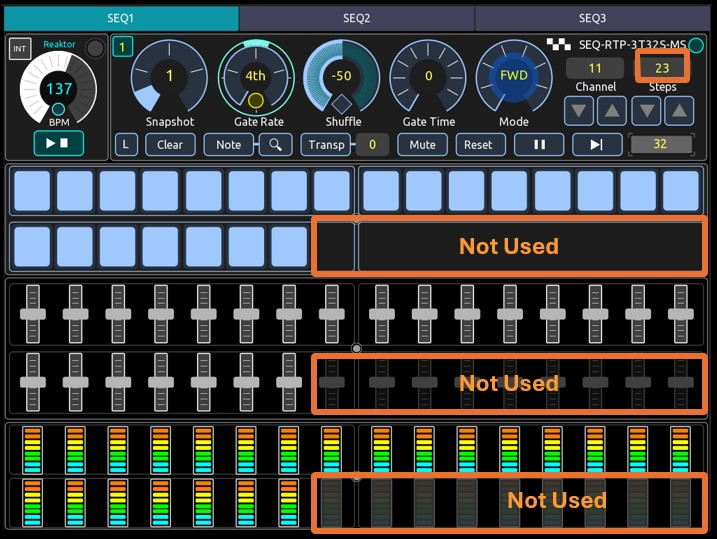
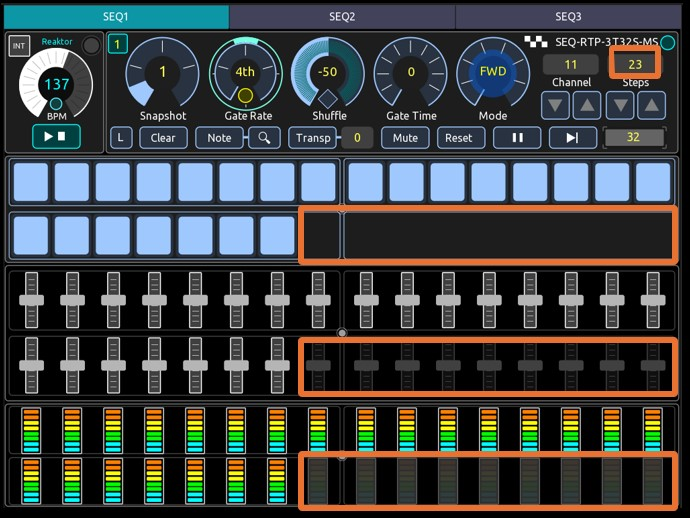
Update Files

diff --git a/USER_GUIDE.md b/USER_GUIDE.md
@@ -1,79 +1,120 @@
-## Reaktor ToyBox Tangle Pack Sequencer TouchOSC template
+## Reaktor ToyBox Tangle Pack Sequencer
+### Custom Built Reaktor rack and TouchOSC Template
 
 ## USER GUIDE
+This guide explains the setup, usage and control of the **CUSTOM BUILT** Reaktor ToyBox Tangle Pack Sequencer. 
 
 ## Contents
 - [Transport](#transport)
 - [Control](#controls)
 - [Sequencer](#sequencer)
-- [MIDI Setup](#midi-setup)
-- [OSC Setup](#osc-setup)
+- [Connections](#connections)
 
-## Transport
+
+## TRANSPORT
 
 <div align="center"> 
 <img src="images/img5.jpg" with=70% >
 </div>
 
-### INT/EXT CLOCK
-Allows you to select Internal or External clock source. The Play/Stops controls change accordingly and the BPM values scales. If you select EXT, two options are enabled: Ableton Link and Reason. If you use other external DAW instead of Reason, you can do it, but you need to change the BPM scale values inthe script to match the values and scales in your DAW. 
+### Clock
+Selects Internal, Ableton Link or an External clock source. The Play and Stop controls and BPM scales change depending on the option selected. If you press and toogle INT, two options are available pressing the right round button: **Link Ableton** and **EXT Reason**. The EXT option shows **Reason** because the template has the BPM values already scaled to this DAW. But you have the option to change it if you use any other external DAW. 
+
+- **INT**: This option selects Reason as the clock source. You could use Reaktor as the master clock source for your setup if you select the option "Send clock to MIDI ouput"  in the Settings menu.
+
+- **LINK**  **Ableton Link**: This option selects Ableton Link as the clock source. Manually Enable **Link** in Ableton as well as in Reaktor.  
+
+- **EXT**  **Reason** : This option selects an external DAW clock source. The template displays **Reason** because the BPM values are already scaled for Reason. But you can change to your DAW and modify the script to match the BPM scales of your DAW. 
 
 <div align="center"> 
 <img src="images/img8.jpg" with=70% >
 </div>
 
+<div align="center"> 
+<img src="images/img15.jpg" with=70% >
+</div>
+
+
 ### BPM
-Select de beats per minute in either REAKTOR (INT) or your external DAW (EXT). You will need to midi map mannualy the BPM control in your DAW and adjust to match the scale. (Reason DAW is already configured ion the template). BPM is the same for all 3 sequencers.
+Selects the BPM values for the 3 sequencers depending on the clock source: 
+
+-- **INT** : Use the BPM values from the Reaktor rack. Values are from 1 to 240. Already OSC mapped. 
+
+-- **EXT - Ableton Link** : Use the BPM values from the Ableton DAW. Values are from 20 to 240. Manualy do the midi mapping and ajust the BPM scale in Ableton to the 240 max value. 
+
+-- **EXT - Reason** : Use the BPM values from the Reason DAW (or any other you use). Default values are from 1 to 244. Manualy do the midi mapping. If you use any other DAW, modify in the template script the MIDI Control Change message of the **BPMRS** control. The default value for Reason adjusted  from 0 to 30.  Change it and adjust to your DAW as needed. To change the name to your DAW, locate in the script the INTEXT and DAW controls the variable daw_ext and change its value. 
+
+ 
+<div align="center"> 
+<img src="images/img13.jpg" with=70% >
+</div>
+
+```
+local daw_ext = 'Reason'      -- Change it to your DAW as needed
+
+````
 
 ### Play / Stop
-Play and stop all the 3 sequencers. It has 3 modes of operation, depending on the selected clock source:
+Play and Stop the 3 sequencer tracks. It has 3 modes of operation, depending on the selected clock source:
 
-- **INT** clock mode: PLAY/STOP play and stop de Reaktor rack. OSC mapped. 
+- **INT** clock mode: PLAY/STOP play and stop de Reaktor rack. Only one play button is displayed OSC mapped to Reaktor.
 
-- **EXT** CLock - **Ableton Link** : First you will need to midi map this controls to your DAW. Two play buttons are avalilable in this mode, one for Reaktor and one for Ableton. Reaktor can play or stop independent of Ableton, but is linked in beat, phase and tempo to the master clock of Ableton. Note: Ableton can start the playing in Reaktor if the sync option is selected in the midi output ports settings. In this mode Reaktor does not have a modular block to control the start/stop control inside the rack. Play/stop control works with a space bar message sent by the template, but it requires the "focus" on the Reaktor window to work. Unfortunately this is a limitation that you will need to take into account. A stream deck device is recommended to  easy the workflow. 
+- **EXT** CLock + **Ableton Link** : Two play buttons, the left one is for Reaktor and the right one is for Ableton.  Manually do the midi mapping of the middle PLAY button to Ableton. Reaktor can play or stop independently of Ableton, but is linked in beat, phase and tempo to the master clock of Ableton. Note: Ableton can start play in Reaktor if the sync option is selected in the midi output ports settings. Reaktor does not have a modular block to control the start/stop control inside the rack when EXT clock source is selected. Play/stop control works with a **[SPACE BAR]** message. It requires to have the "focus" on the Reaktor window to work. Unfortunately this is a limitation that you will need to take into account. A stream deck device is recommended in your  workflow. The **PLAY_SPACE** control in the script ese OSC Connection 2 to send SPACE message to TouchOSC Bridge host, port 12101, which in turn send it to Reaktor.
 
-- **EXT** Clock - **Reason** (Or any other external DAW): First you will need to midi map this controls to your DAW. One play/stop button is available, that is mapped to your DAW. In this mode the DAW has the transport control, controlling the transport in Reaktor on sync. 
+<div align="center"> 
+<img src="images/img14.jpg" with=70% >
+</div>
+
+<div align="center"> 
+<img src="images/img15.jpg" with=70% >
+</div>
+
+- **EXT** Clock + **Reason** (Or any other external DAW): Only one play button is displayed. Manually do the midi mapping of the middle PLAY button to Reason. Reaktor will  play or stop controlled in sync by the external clock source of Reason. . Note: Ableton can start play in Reaktor if the sync option is selected in the midi output ports settings. Reaktor does not have a modular block to control the start/stop control inside the rack when EXT clock source is selected
 
 ### Mute 
-Mute the selected track (all 3 if LINK selected). The sequencer will continue running, but without MIDI output
+Mute the selected track (all 3 if LINK selected). The sequencer track continue running, no MIDI output.
 
 ### Reset
-Reset the track position to the start on the selected track (all 3 if LINK selected). The start position is 1 or the last step, depending on the sequencer direction mode. 
+Reset the track position to the start on the selected track (all 3 if LINK selected). The start position is 1 or the last step, depending on the sequencer track direction mode. 
 
 ### Pause
-Pause the selected track (all 3 if LINK selected). The sequencer stops, with no MIDI output. Reaktor clock continue running. Once pause is disabled, sequencer will return playing on another step.   
+Pause the selected track (all 3 if LINK selected). The sequencer track stops, no MIDI output. Clock continue running. Once pause is disabled, the sequencer track will play again.   
 
 ### Step 
 Advance one step the selected track (all 3 if LINK selected). This is useful to test your sequence.  
 
 
-## Control
+## CONTROL
 
 <div align="center"> 
 <img src="images/img6.jpg" with=70% >
 </div>
 
 ### Snapshots
-The template supports a **snapshot** ( or preset) functionality, that allows you to save and recall up to four configuration values on each sequencer: note, gate, velocity and controls ( gate rate, shuffle, gate time, mode and steps). MIDI channel does not change with each snapshot. Each time you select a snapshot,  it automatically changes the value in the Reaktor rack. But be aware it is no bidirectional, that means, if you change a value in the Reaktor rack, it will not be updated to the template. The template acts as the "master" configuration. If you want to start from zero, just run press the CLEAR button with the LINK enabled to clear all values at once in the 3 sequencers and repeat it for each snapshot. 
+The template supports a **snapshot** ( or preset) functionality, which allows you to save and recall up to four configuration values on each sequencer track: note, gate, velocity and controls ( gate rate, shuffle, gate time, mode and steps). MIDI channel does not change. Each time you select a snapshot,  it automatically changes the value in the teamplate and in the Reaktor rack. But be aware it is no bidirectional, it only works from the template to Reaktor. So if you change a value in the Reaktor rack, it will not be updated back to the template. The template has the "master" values. If you need to start from zero, just run press CLEAR with LINK enabled to clear all values at once in the 3 sequencer tracks. Repeat it for each snapshot. 
+
+<div align="center"> 
+<img src="images/img16.gif" with=70% >
+</div>
 
 ### Link
-LINK (L) button links the execution of commands, to execute it simultaneously on the 3 sequencers. The commands that works with "LINK" are: SNAPSHOT, CLEAR, NOTE, TRANSP, MUTE, RESET, PAUSE, and STEP. Just press the **L** button and the linked controls will change color to yellow. 
+Links the execution of commands, to execute it simultaneously on the 3 sequencer tracks. The commands that works with "LINK" are: SNAPSHOT, CLEAR, NOTE, TRANSP, MUTE, RESET, PAUSE, and STEP. Press the **L** button and the linked controls will change color to yellow. 
 
 <div align="center"> 
 <img src="images/img10.jpg" with=70% >
 </div>
 
 ### Gate Rate
-Select the gate rate of each track: 4th, 8th, 16th, 32th and 64th.
+Selects the gate rate on each track: 4th, 8th, 16th, 32th and 64th.
 
 ### Shuffle
-Select a shuffle of each track to introduce variations in the rythm. (-50% to 50%). A diamond shaped button is provided to quickly return shuffle to 0%.
+Selects a shuffle on each track to introduce variations in the rythm: -50% to 50%. The diamond shaped button return shuffle to 0%.
 
 ### Gate Time
-Select a gate time of each track. (0 to 100)
+Selects a gate time on each track: 0 to 100
 
 ### Mode
-Select one of the 8 sequencer modes: FWD, REV, FWD-REV, TRI, PATT1, PATT2, RAND, GLITCH. 
+Selects one out of the 8 sequencer modes: FWD, REV, FWD-REV, TRI, PATT1, PATT2, RAND, GLITCH. 
 
 - **FWD** (forward) = The sequence plays forwards.
 - **REV** (reverse) = The sequence is reversed.
@@ -85,23 +126,23 @@ Select one of the 8 sequencer modes: FWD, REV, FWD-REV, TRI, PATT1, PATT2, RAND,
 - **GLITCH** = Same as FWD except every so often plays a random step.
 
 ### Channel
-Select the midi output channel for each sequencer track. Take care to use a midi channel that is not used by any other instrument and use a virtual MIDI port in your computer, that is not used or reserved by any other DAW or applications. On a PC you can use [loopMIDI](https://www.tobias-erichsen.de/software/loopmidi.html) to create virtual ports. On a Mac, you can use the IAC bus to create any number of virtual MIDI buses. This driver can be activated in the Audio MIDI Setup Utility.
+Selects the midi output channel for each sequencer track. Use either an available midi channel in your audio interface that is not used by any other instrument and/or use a virtual MIDI port in your computer, that is not used or reserved by any other DAW or application. On a PC you can use [loopMIDI](https://www.tobias-erichsen.de/software/loopmidi.html) to create virtual ports. On a Mac, you can use the IAC bus to create any number of virtual MIDI buses, the driver can be activated in the Audio MIDI Setup Utility.
 
 ### Steps
-Select the number of up to 32 steps per sequencer track. The steps that are not used, change to a hidden state in the template, so you have a visual feedback of the steps available. 
+Selects the number of up to 32 steps per sequencer track. The steps that are not used, change to a hidden state in the template, so you have a visual feedback of the steps available. 
 
 <div align="center"> 
 <img src="images/img11.jpg" with=70% >
 </div>
 
 ### Clear
-Initializes the values of the sequencer track (all 3 if LINK selected) to a starting values: 
+Initializes the values of the sequencer track (all 3 if LINK selected) to the following values: 
 - **GATE** = ALL SELECTED (1)
 - **NOTE** = C3 (middle C)
 - **VELOCITY** = 100
 - **Gate Rate** = 4th
-- **Shuffle = 0%
-- **Gate Time = 50
+- **Shuffle** = 0%
+- **Gate Time** = 50
 - **MODE** = FWD
 - **Steps** = 32 
 
@@ -109,7 +150,7 @@ Ocassionaly the template and reaktor rack files could be out of sync if you eith
 
 
 ### Note display and zoom
-Display the pitch values of each step on top of each step gate. Additionally a zoom button extend the note faders to easy input of notes. The convention used for numbering keys (notes) is where MIDDLE C (note #60) is C3. In piano scales the convention, Middle C is designated "C4". The "C3 Convention" is the most commonly used octave designation system on standard MIDI keyboards, most DAWs and Reaktor.  
+Display the pitch values of each step on top of each step gate. Additionally a zoom button extend the note faders to allow for an easy input of notes. The convention used for numbering keys (notes) is where MIDDLE C (note #60) is C3. The piano scales convention, Middle C is designated as "C4". The "C3 Convention" used here, is the most commonly used octave designation system on standard MIDI keyboards, most DAWs and Reaktor.  
 
 <div align="center"> 
 <img src="images/img12.jpg" with=70% >
@@ -117,31 +158,80 @@ Display the pitch values of each step on top of each step gate. Additionally a z
 
 
 ### Transpose
-The template has a -24 to + 24 interval keyboard to transpose the sequence (all 3 if LINK selected) without the need of an external midi controller. When you select transpose it displays the transpose keyboard on top of the velocity group. It also displays the transpose interval according to the key pressed, being C3 the central key. When you release transpose, the transpose keyboard returns to a hidden state. 
+The template has a -24 to + 24 interval keyboard to transpose the sequence the tracks (all 3 if LINK selected) without the need of an external midi controller. When you select transpose it displays the transpose keyboard on top of the velocity group. It also displays the transpose interval according to the key pressed, being C3 the central key. When you release transpose, the transpose keyboard returns to a hidden state. 
 
 <div align="center"> 
 <img src="images/img9.jpg" with=70% >
 </div>
 
 
-## Sequencer
+## SEQUENCER
 
 <div align="center"> 
 <img src="images/img7.jpg" with=70% >
 </div>
 
-### Gate section
-Select each step to play it or not. It can be changed an any time and its value is stored automatically in the corresponding snapshot. But remember to mannualy save the template if you close it to keep the values. Depending on the number of steps selected, the gate steps can be displayed or hidden. 
+### Gate 
+Select each step to play it or not. It can be changed at any time and its value is stored automatically in the corresponding snapshot. But remember to mannualy save the template if you close it to keep the values. Depending on the number of steps selected, the gate steps can be displayed or hidden. 
 
-### Note (Pitch) section
-Select the value of the note on each step. It can be changed at any time and its value is stored automatically in the corresponding snapshot. But remember to mannualy save the template if you close it to keep the values. Depending on the number of steps selected, the note steps can be displayed or hidden. The note value that you change in the fader can be displayed when you press the Note button. If you press the zoom button, the note faders are expanded and you can more easily control the fader to setup a  note value. 
+### Note (Pitch) 
+Select the value of the note on each step. It can be changed at any time and its value is stored automatically in the corresponding snapshot. But remember to mannualy save the template if you close it to keep the values. Depending on the number of steps selected, the note steps can be displayed or hidden. The note value can be displayed when you press the Note button. If you press the zoom button, the note faders are expanded so you can more easily touch the fader to input a note value. 
 
-### Velocity section
-Select the value of the velocity (volume level) on each step. Remember that the velocity signal will work only if your virtual or external instrument supports velocity control. It can be changed at any time and its value is stored automatically in the corresponding snapshot. But remember to mannualy save the template if you close it to keep the values. Depending on the number of steps selected, the velocity steps can be displayed or hidden. The velocity value that you change in the fader is displayed automatically in a pop up box over the note group. 
-
-
-## MIDI setup
+### Velocity
+Select the value of the velocity (volume level) on each step. Remember that the velocity signal will work only if your virtual or external instrument supports velocity control. It can be changed at any time and its value is stored automatically in the corresponding snapshot. But remember to mannualy save the template if you close it to keep the values. Depending on the number of steps selected, the velocity steps can be displayed or hidden. The velocity value is displayed automatically in a pop up box over the note group when you move a fader.
 
 
+## CONNECTIONS
+- Reaktor Mapping: OSC. Already configured in the Reaktor rack file. No need to stup.
+- DAW Host Mapping:  MIDI. Manualy do the midi mapping in the PLAY, STOP and BPM controls between teh template and your DAW
+- TouchOSC Connections: Manualy do the following configuration in your tablet device:
+	- MIDI Connection 1 : Send Port: Bridge, Receive Port: Bridge
+	- OSC Connection 1: Host (IP of your PC host), Ports: send 10000, receive 10000
+	- OSC Connection 2: Host (IP of your PC host), Ports: send 12101, receive 12101   (This connection is required to send keystrokes)
+	- Bridge: Host(IP of PC host)
+- Virtual MIDI interface: Virtual midi ports on the PC or MAC to communicate Reaktor with the DAW. Manually do the neccesary configurations
+- Physical MIDI: To communicate Reaktor with external gear. Manually do the neccesary configurations
+- Reaktor OSC Configuration: 
+	- OSC Activate ON 
+	- Receive on Port 10000 
+	- OSC Send (Identifier Target, Tablet device IP address, Port 10000)
+	
+## REAKTOR RACK
+The **CUSTOM BUILT** Reaktor rack consist of the following modular blocks,  most of them are from the ToyBox Tangle Pack set. Go to [Toy Box](https://www.toyboxaudio.com/) to get it. 
+- Sequencer
+	- 3 Counter 
+	- 3 Position 
+	- 4x3 (12) Note 
+	- 6x3 (18) Gate 
+	- 4x3 (12) Level
+	- 3x3 (9) Sum  
+	- 3 Multiply (Merge)
+	- 3 Clock 
+	- 3 Macro Knobs
+- Utility
+	- 2 Gate
+	- 2 Sum
+	- 4 Multiply
+	- 2 Invert
+	- 1 Transpose
+	- 1 Sample & Hold
+	- 1 MIDI out (3 ports)
+	- 1 OSC out (11 used)
 
-## OSC setup
+All blocks are already OSC mapped with the template (inputs and outputs). You will only need to configure the OSC and MIDI connection settings in Reaktor according to your setup. 
+
+<div align="center"> 
+<img src="images/img17.jpg" with=70% >
+</div>
+
+<div align="center"> 
+<img src="images/img18.jpg" with=70% >
+</div>
+
+
+> [!NOTES]
+> 1. Values configured in the knob 1 of the macro knobs SEQ1, SEQ2 SEQ3, are setup to a value = 60.1 . Do not change it. This value is calibrated to the smooth input of the the Counter block to generate a smooth ramp for the sequencer to work properly.  
+> 2. EXT - Reason clock mode. Play control in Reaktor wotks with SPACE BAR in this mode. Unfortunately there is no option to control Reaktor transport with a Reaktor Block in this mode. The template sends a space-bar keystroke when you press the Play / Stop in this mode. But you need to have the **focus** over the Reaktor window. If you have a Stream Deck device it will help for your workflow. 
+
+
+ 

diff --git a/README.md b/README.md
@@ -1,4 +1,6 @@
-## Reaktor ToyBox Tangle Pack Sequencer TouchOSC template
+## Reaktor ToyBox Tangle Pack Sequencer
+### Custom Built Reaktor rack and TouchOSC Template
+
 - Instrument: Reaktor ToyBox **Tangle Pack** Sequencer, 3 tracks, 32 steps, MIDI out, Standalone
 - Model: SEQ-RTP-3T32S-MS
 - Version: 1.0 
@@ -17,7 +19,7 @@
 - [Instrument](#instrument)
 - [Sequencer](#sequencer)
 - [Reaktor rack](#reaktor-rack)
-- [Connections](#connections)
+- [TouchOSC Connections](#touchosc-connections)
 - [Requirements](#requirements)
 - [Files](#files)
 - [License](#license)
@@ -25,7 +27,7 @@
 
 
 ## Description
-A TouchOSC template to control with a tablet device a Reaktor Sequencer of 3 tracks, 32 steps per track, built with the [ToyBox Tangle Pack](https://www.toyboxaudio.com/pages/tangle-pack) modular blocks. It "materializes" a well featured  "physical" sequencer in a tablet midi controller for your musical production workflow to  jam and inspire your productions.
+A TouchOSC template to control with a tablet device a **CUSTOM BUILT** Reaktor Sequencer of 3 tracks, 32 steps per track, custom built with the [ToyBox Tangle Pack](https://www.toyboxaudio.com/pages/tangle-pack) modular blocks. It "materializes" a well featured  "physical" sequencer in a tablet midi controller for your musical production workflow to  jam and inspire your productions.
 
 ## Operation
 Reaktor runs in **standalone** mode outside of the DAW using the rack (preset) file included in the repository. The template is the midi controller, Reaktor is the sequencer instrument that can play either a virtual intrument in a DAW or a external instrument. Communication between the template and Reaktor use OSC protocol, with Reaktor being the OSC receiver. Communication between the template and a DAW use MIDI protocol, with the DAW being the Transport control and the external clock source. Clock synchronization between Reaktor and a DAW can be in 3 modes:
@@ -88,17 +90,23 @@ As long as your template and your DAW session are open, both are in sync. But on
 - OSC return: Return control sequencer values to the template (gate, position, play)
 
 ## Reaktor rack
-- Blocks: ToyBox Tangle Pack, Bento Box utility block, ToyBox Free Pack OSC send block
-- Rack: Designed rack with note, gate, level, ramp, counter, clock and utility modular blocks.
+- Blocks: 
+	- [ToyBox Tangle Pack](https://www.toyboxaudio.com/pages/tangle-pack) 
+	- [ToyBox Free Pack](https://www.toyboxaudio.com/pages/free-pack-details) (OSC send block) 
+	- Reaktor Blocks Base
+- Rack: CUSTOM BUILT rack. Sequencer note, gate, level, ramp, counter, clock and utility modular blocks.
 - Blocks Mapping: OSC  
-- OSC Configuration: OSC Activate ON, Receive on Port 10000, OSC Send (Identifier Target, Tablet IP address, Port 10000)
+- Reaktor OSC Configuration: 
+	- OSC Activate ON 
+	- Receive on Port 10000 
+	- OSC Send (Identifier Target, Tablet device IP address, Port 10000)
 - File: SEQ-RTP-3T32S-MS-v1_0.nksr
 
 <div align="center"> 
 <img src="images/img3.jpg" >
 </div>
 
-## Connections
+## TouchOSC Connections
 - Reaktor Mapping: OSC
 - DAW Host Mapping:  MIDI
 - TouchOSC Connections 
@@ -106,7 +114,7 @@ As long as your template and your DAW session are open, both are in sync. But on
 	- OSC Connection 1: Host (IP of PC host), Ports: send 10000, receive 10000
 	- OSC Connection 2: Host (IP of PC host), Ports: send 12101, receive 12101   (This connection required to send keystrokes)
 	- Bridge: Host(IP of PC host)
-- Virtual MIDI interface: Virtual midi ports on the PC to communicate Reaktor and DAW
+- Virtual MIDI interface: Virtual midi ports on the PC/MAc to communicate Reaktor with DAW
 - Physical MIDI: To communicate Reaktor with external gear
 
 ## Requirements
@@ -114,7 +122,10 @@ As long as your template and your DAW session are open, both are in sync. But on
 - Tablet: An iOS or Android Tablet
 - DAW: (Optional) Ableton Live 11/12 or any other DAW with Send Clock. (If running in Clock mode 1 (INT), a DAW is not requiered) 
 - Plugin: Native Instruments - Reaktor 6
-- Reaktor Modular Blocks: ToyBox Tangle Pack, Free Pack
+- Reaktor Blocks: 
+	- [ToyBox Tangle Pack](https://www.toyboxaudio.com/pages/tangle-pack) 
+	- [ToyBox Free Pack](https://www.toyboxaudio.com/pages/free-pack-details) (OSC send block) 
+	- Reaktor Blocks Base
 - Target virtual instrument: Any virtual instrument in your DAW
 - Target external instrument:  Any external midi instrument
 - MIDI: Virtual MIDI ports
